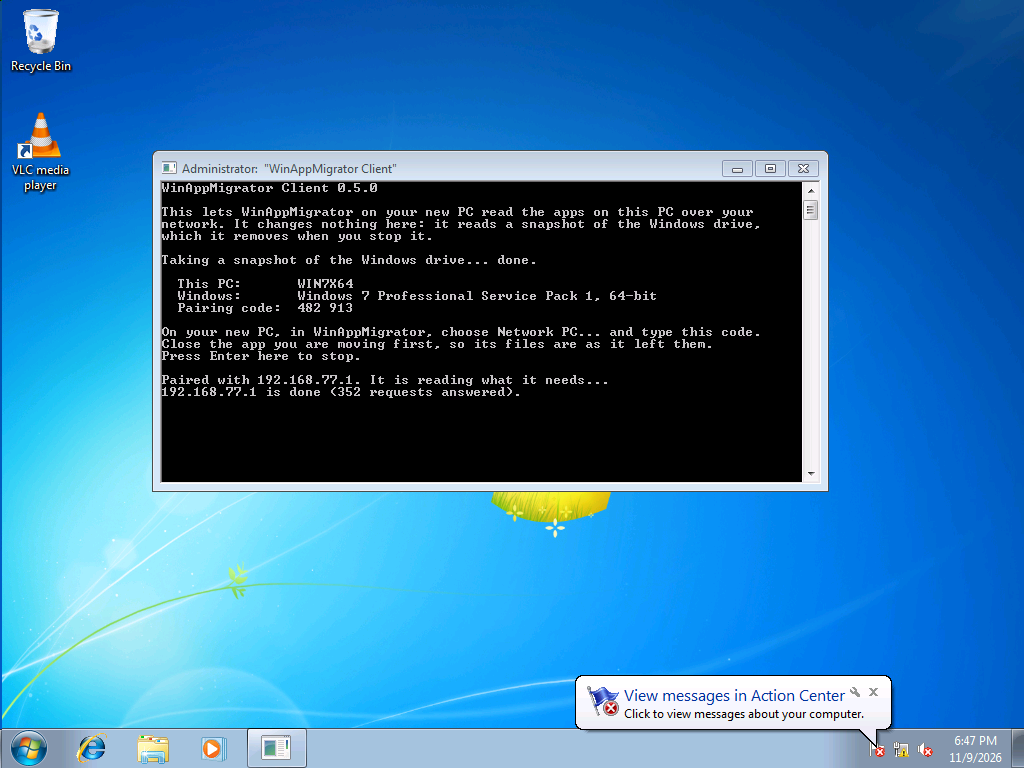
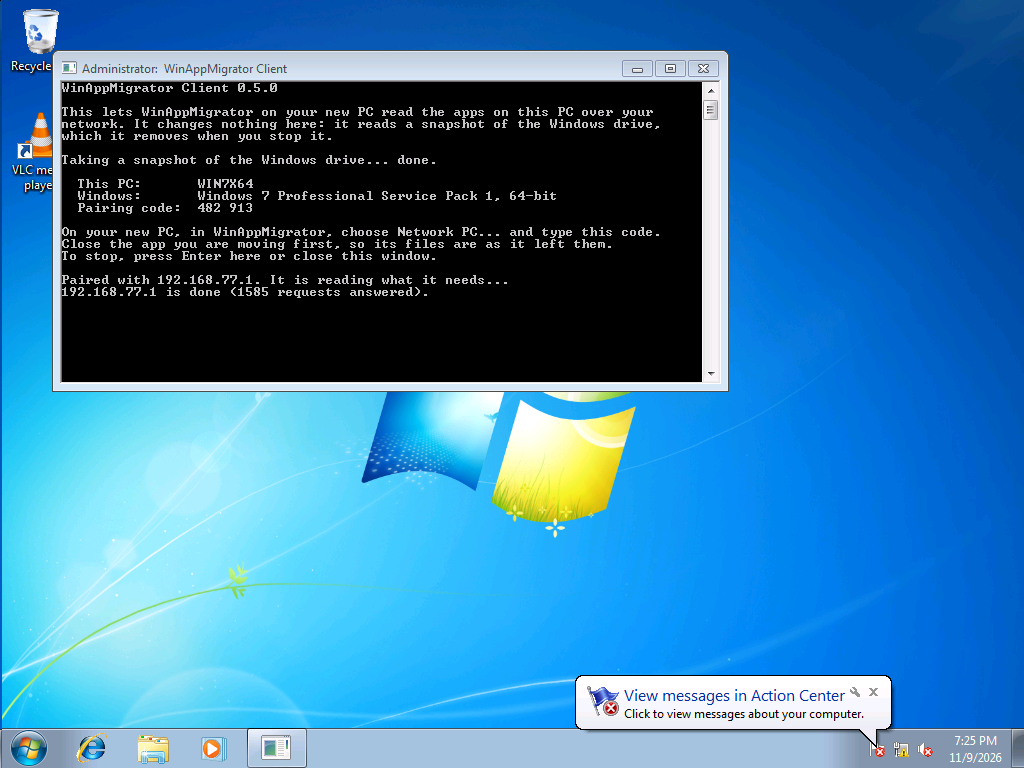
Clean up after the client when its window is closed
Closing the client's window ended it before it could remove its
snapshot and firewall rules, which then stayed until it next ran. Each
run now starts a copy of itself with --caretaker, with no console and
out of any job that lets it go, sharing nothing with the run but a
pipe. When the pipe closes, however the run ended, the caretaker waits
for the run's record to be let go of and undoes what it names. Tried on
Windows 7 SP1 x86 and x64 with Enter, a real WM_CLOSE to the console
window, and a kill, and on Windows 11 with a kill: no process, shadow
copy, firewall rule or record left after any of them.

A second client now says it is already running, rather than giving
error 32: the record was read before the lease on it was checked, and
that read failed first. The window's title no longer shows quotes,
which cmd's title kept. The note saved with the client, the README, and
discovery.md say closing the window stops it too; the README's build
steps include the client, and its crate table the two new crates.

Changed region(s): [[0.0312, 0.0625, 0.8125, 0.6562], [0.9375, 0.9375, 0.9688, 0.9688]]

diff --git a/crates/winappmigrator-client/src/system.rs b/crates/winappmigrator-client/src/system.rs
@@ -1,16 +1,20 @@
 //! What the client does to the PC it runs on, and undoes: a shadow copy of the Windows drive, and two
 //! Windows Firewall rules for its own ports from the local network. Each is recorded in a state file
 //! the client holds open while it runs, so that a run that ended without undoing them can be cleaned
-//! up after by the next, and a run still going is left alone.
+//! up after by its caretaker, a copy of the client with no window that waits for the run to end
+//! however it does, or by the next run, and a run still going is left alone.
 //!
 //! Everything here goes through tools every Windows from 7 on has: WMI through PowerShell 2.0, and
 //! `netsh`. Nothing else on the PC is changed.
 
 use std::fs::{self, File, OpenOptions};
-use std::io::{self, Write};
+use std::io::{self, Read, Seek, Write};
 use std::os::windows::fs::OpenOptionsExt;
+use std::os::windows::process::CommandExt;
 use std::path::{Path, PathBuf};
-use std::process::{Command, Output};
+use std::process::{Child, Command, Output, Stdio};
+use std::thread;
+use std::time::Duration;
 
 use winreg::RegKey;
 use winreg::enums::{HKEY_LOCAL_MACHINE, KEY_WOW64_64KEY};
@@ -32,6 +36,17 @@ const STATE_FILE: &str = "running.txt";
 const RULE_TCP: &str = "WinAppMigrator Client (link)";
 const RULE_UDP: &str = "WinAppMigrator Client (discovery)";
 const ERROR_SHARING_VIOLATION: i32 = 32;
+
+/// The argument that starts the client as a run's caretaker, rather than as a run.
+pub const CARETAKER: &str = "--caretaker";
+/// No console, so that closing a run's window does not end its caretaker too.
+const DETACHED_PROCESS: u32 = 0x0000_0008;
+/// Out of any job the run is in, so that the job ending does not end the caretaker too. A job that
+/// does not allow it refuses, and the caretaker is started without it.
+const CREATE_BREAKAWAY_FROM_JOB: u32 = 0x0100_0000;
+/// How long a caretaker waits for Windows to let go of a record once its run has ended.
+const CARETAKER_TRIES: u32 = 40;
+const CARETAKER_PAUSE: Duration = Duration::from_millis(250);
 
 /// Windows' own folder, from where it records it, which only an administrator can change. An
 /// elevated program does not go by the environment it was started with.
@@ -154,23 +169,32 @@ impl RunState {
         let folder = state_folder();
         fs::create_dir_all(&folder)?;
         let path = folder.join(STATE_FILE);
-        if let Ok(left) = fs::read_to_string(&path) {
-            match OpenOptions::new().write(true).share_mode(0).open(&path) {
-                Ok(_) => undo(&left),
-                Err(error) if error.raw_os_error() == Some(ERROR_SHARING_VIOLATION) => {
-                    return Err(io::Error::other(
-                        "the client is already running on this PC. Use that one, or stop it first.",
-                    ));
-                }
-                Err(_) => {}
-            }
-        }
-        let file = OpenOptions::new()
+        let left_by_another = path.exists();
+        // Held from here, so that the record is read, undone and started again by this run alone.
+        let mut file = OpenOptions::new()
+            .read(true)
             .write(true)
             .create(true)
-            .truncate(true)
+            .truncate(false)
             .share_mode(0)
-            .open(&path)?;
+            .open(&path)
+            .map_err(|error| {
+                if error.raw_os_error() == Some(ERROR_SHARING_VIOLATION) {
+                    io::Error::other(
+                        "the client is already running on this PC, or is cleaning up after one \
+                         that was closed. Use that one, or wait a moment and start this again.",
+                    )
+                } else {
+                    error
+                }
+            })?;
+        if left_by_another {
+            let mut left = String::new();
+            file.read_to_string(&mut left)?;
+            undo(&left);
+            file.set_len(0)?;
+            file.rewind()?;
+        }
         Ok(Self { file, path })
     }
 
@@ -188,6 +212,56 @@ impl RunState {
         let Self { file, path } = self;
         drop(file);
         let _ = fs::remove_file(path);
+    }
+}
+
+/// Start a copy of this program, with no window, that waits for this run to end and then undoes
+/// whatever its record still lists. Closing the run's window ends it before it can clean up after
+/// itself, and so would anything else that ends it, but not its caretaker. The two share nothing but
+/// a pipe, which closes when the run ends or drops the child, so keep the child until after
+/// [`RunState::end`].
+pub fn start_caretaker() -> io::Result<Child> {
+    let program = std::env::current_exe()?;
+    let start = |flags| {
+        Command::new(&program)
+            .arg(CARETAKER)
+            .stdin(Stdio::piped())
+            .stdout(Stdio::null())
+            .stderr(Stdio::null())
+            .creation_flags(flags)
+            .spawn()
+    };
+    start(DETACHED_PROCESS | CREATE_BREAKAWAY_FROM_JOB).or_else(|_| start(DETACHED_PROCESS))
+}
+
+/// Be a run's caretaker: wait for the run to end, then undo what its record still lists. A run that
+/// cleaned up after itself has removed its record, and a run started since holds its own, which is
+/// left alone.
+pub fn take_care() {
+    let _ = io::copy(&mut io::stdin().lock(), &mut io::sink());
+    let path = state_folder().join(STATE_FILE);
+    for _ in 0..CARETAKER_TRIES {
+        match OpenOptions::new()
+            .read(true)
+            .write(true)
+            .share_mode(0)
+            .open(&path)
+        {
+            Ok(mut file) => {
+                let mut left = String::new();
+                if file.read_to_string(&mut left).is_ok() {
+                    undo(&left);
+                }
+                drop(file);
+                // A run that has started since holds its record, which this then cannot remove.
+                let _ = fs::remove_file(&path);
+                return;
+            }
+            Err(error) if error.raw_os_error() == Some(ERROR_SHARING_VIOLATION) => {
+                thread::sleep(CARETAKER_PAUSE);
+            }
+            Err(_) => return,
+        }
     }
 }
 

diff --git a/crates/winappmigrator-client/src/main.rs b/crates/winappmigrator-client/src/main.rs
@@ -3,13 +3,16 @@
 
 use std::io::{self, BufRead};
 use std::net::{Ipv4Addr, TcpListener, UdpSocket};
+use std::os::windows::process::CommandExt;
 use std::process::ExitCode;
 use std::sync::{Arc, Mutex};
 use std::thread;
 use std::time::Duration;
 
 use winappmigrator_client::serve::serve;
-use winappmigrator_client::system::{RunState, Snapshot, about_this_pc, new_code, open_firewall};
+use winappmigrator_client::system::{
+    RunState, Snapshot, about_this_pc, new_code, open_firewall, start_caretaker,
+};
 use winappmigrator_link::channel::pair_as_client;
 use winappmigrator_link::discovery::{Announcement, answer};
 use winappmigrator_link::{DISCOVERY_PORT, LINK_PORT, LinkError, MAGIC, PROTOCOL_VERSION};
@@ -20,12 +23,18 @@ const ATTEMPTS_PER_CODE: u32 = 5;
 const IDLE_LIMIT: Duration = Duration::from_secs(30 * 60);
 
 fn main() -> ExitCode {
+    if std::env::args().nth(1).as_deref() == Some(winappmigrator_client::system::CARETAKER) {
+        winappmigrator_client::system::take_care();
+        return ExitCode::SUCCESS;
+    }
     // The window says what it is, rather than whatever started it. `title` changes the console it
     // shares with this, and nothing else.
     let _ = std::process::Command::new(
         winappmigrator_client::system::windows_folder().join(r"System32\cmd.exe"),
     )
-    .args(["/d", "/c", "title", "WinAppMigrator Client"])
+    // Raw, since `title` keeps any quotes it is given as part of the title.
+    .args(["/d", "/c"])
+    .raw_arg("title WinAppMigrator Client")
     .status();
     // Each line fits the 80 columns Windows 7 gives a console.
     println!("WinAppMigrator Client {}", winappmigrator_client::VERSION);
@@ -48,6 +57,14 @@ fn main() -> ExitCode {
 
 fn run() -> io::Result<()> {
     let mut state = RunState::begin()?;
+    // Kept until this returns, which tells the caretaker the run is over. It then waits for the
+    // record to be let go of, on a way out that drops it rather than ending it.
+    let _caretaker = start_caretaker()
+        .inspect_err(|error| {
+            println!("If this window is closed rather than stopped, the snapshot and firewall");
+            println!("rules stay until the client is next run here ({error}).");
+        })
+        .ok();
     print!("Taking a snapshot of the Windows drive... ");
     let snapshot = match Snapshot::take(&mut state) {
         Ok(snapshot) => snapshot,
@@ -119,7 +136,7 @@ fn run() -> io::Result<()> {
     println!();
     println!("On your new PC, in WinAppMigrator, choose Network PC... and type this code.");
     println!("Close the app you are moving first, so its files are as it left them.");
-    println!("Press Enter here to stop.");
+    println!("To stop, press Enter here or close this window.");
     println!();
 
     let root = snapshot.root.clone();

diff --git a/crates/winappmigrator-gui/src/network_view.rs b/crates/winappmigrator-gui/src/network_view.rs
@@ -32,7 +32,7 @@ Run this on the PC you are moving apps off: Windows 7, 8, 10 or 11.\r\n\
 2. Double-click \"WinAppMigrator Client.exe\" and let it make changes.\r\n\
 3. It shows a 6-digit pairing code. In WinAppMigrator on your new PC, choose\r\n\
    Network PC..., pick this PC, and type the code.\r\n\
-4. When the new PC is done, press Enter in the client's window.\r\n\
+4. When the new PC is done, press Enter in the client's window, or close it.\r\n\
 \r\n\
 It only reads. While it runs it keeps a snapshot of the Windows drive and lets\r\n\
 its own two ports through Windows Firewall from your local network, and it\r\n\

diff --git a/crates/winappmigrator-link/src/lib.rs b/crates/winappmigrator-link/src/lib.rs
@@ -1,6 +1,6 @@
 //! The encrypted link between WinAppMigrator on a new PC (the builder) and its client on an old one.
 //!
-//! The client runs on the PC an app is moving off, which can be Windows 7, 10 or 11. It does no
+//! The client runs on the PC an app is moving off, which can be Windows 7, 8, 10 or 11. It does no
 //! capturing of its own: it takes a snapshot of that PC's Windows drive and answers the builder's
 //! requests to list a folder, describe a file, and read part of one, read-only. The builder captures
 //! the app through those answers as it would from a drive plugged into it.

diff --git a/crates/winappmigrator-client/src/lib.rs b/crates/winappmigrator-client/src/lib.rs
@@ -1,4 +1,4 @@
-//! The client: runs on the PC an app is moving off (Windows 7, 10 or 11) and lets WinAppMigrator on
+//! The client: runs on the PC an app is moving off (Windows 7, 8, 10 or 11) and lets WinAppMigrator on
 //! the new PC read it over the network, through [`winappmigrator_link`]. It captures nothing itself.
 //!
 //! It takes a shadow copy of the Windows drive through WMI, so what is read is one moment of it and

diff --git a/README.md b/README.md
@@ -97,7 +97,7 @@ WinAppMigrator itself needs Windows 10 or 11. To move an app off a PC that is st
 The client only lets this PC read the old one, and does no capturing of its own. What the build reads crosses the network,
 and nothing else: an app's files and settings, not the whole drive. The code pairs the two PCs without ever crossing the
 network, and everything after it is encrypted. While it runs, the client lets its own two ports through Windows Firewall
-from your local network only, and when you press Enter it removes them and the snapshot.
+from your local network only, and when you press Enter or close its window, it removes them and the snapshot.
 
 <p align="center">
   <picture>
@@ -466,20 +466,26 @@ there is replaced.
 - **`%ProgramData%\WinAppMigrator`**, which only administrators can get into, holds logs, what an install needs to undo itself,
   and while one runs, what it has unpacked. A scan of a connected drive, or of an account that is not signed in, also keeps copies
   of registry files there while it runs.
+- **WinAppMigrator Client**, on the PC an app is moving off, keeps a snapshot of the Windows drive, two Windows Firewall rules
+  named `WinAppMigrator Client (link)` and `(discovery)`, and a record of both, `%ProgramData%\WinAppMigrator Client\running.txt`,
+  only while it runs. Stopping it or closing its window removes all three. If the PC shuts down while it runs, the next run of
+  the client removes them first. The empty `WinAppMigrator Client` folder stays.
 
 ## Building from source
 
 You need Windows, [Rust](https://rustup.rs) through rustup, which picks the pinned 1.99.1 by itself, and the Visual
-Studio C++ build tools. The app carries the installer inside itself, so build the installer first:
+Studio C++ build tools. The app carries the installer and WinAppMigrator Client inside itself, so build those first:
 
 ```powershell
 cargo build --release -p winappmigrator-installer
 $env:WINAPPMIGRATOR_INSTALLER_STUB = "$PWD\target\release\winappmigrator-installer.exe"
+scripts\build-client.ps1
 cargo build --release -p winappmigrator-gui
 .\target\release\winappmigrator.exe
 ```
 
-A release build of the app with no installer to carry stops there.
+A release build of the app with either missing stops there. The client is built for Windows 7 by
+[`scripts/build-client.ps1`](scripts/build-client.ps1), which says how.
 
 | Crate | What it is |
 | --- | --- |
@@ -487,6 +493,8 @@ A release build of the app with no installer to carry stops there.
 | [`winappmigrator-ui`](https://github.com/RandyNorthrup/WinAppMigrator/tree/main/crates/winappmigrator-ui) | Shared design system, widgets, and process hardening |
 | [`winappmigrator-gui`](https://github.com/RandyNorthrup/WinAppMigrator/tree/main/crates/winappmigrator-gui) | The app, built as `winappmigrator.exe`. Never restores anything |
 | [`winappmigrator-installer`](https://github.com/RandyNorthrup/WinAppMigrator/tree/main/crates/winappmigrator-installer) | The stub inside every installer, and the only caller of the restore code |
+| [`winappmigrator-link`](https://github.com/RandyNorthrup/WinAppMigrator/tree/main/crates/winappmigrator-link) | The encrypted link between the app and WinAppMigrator Client: pairing, messages, and finding a client |
+| [`winappmigrator-client`](https://github.com/RandyNorthrup/WinAppMigrator/tree/main/crates/winappmigrator-client) | WinAppMigrator Client, run on the PC an app is moving off. Only reads |
 
 Run the checks with the commands in [CONTRIBUTING.md](https://github.com/RandyNorthrup/WinAppMigrator/blob/main/CONTRIBUTING.md). Releases are built by
 [GitHub Actions](https://github.com/RandyNorthrup/WinAppMigrator/blob/main/.github/workflows/release.yml) when a `v*` tag is pushed.

diff --git a/docs/discovery.md b/docs/discovery.md
@@ -820,8 +820,14 @@ Windows has:
   program sees the real 64-bit `System32`. Nothing it reads is locked, and nothing changes while it is read.
 - **Two Windows Firewall rules** for its own program and ports, TCP 47732 and UDP 47731, from the local subnet only, by `netsh`.
 - **A record** of both, `%ProgramData%\WinAppMigrator Client\running.txt`, held open while it runs. Enter removes both and the
-  record. A run that ended any other way leaves the record, and the next run removes what it names first. One still running
-  is left alone, and a second will not start.
+  record. So does closing the window, which ends the run before it can: each run starts a copy of the client with
+  `--caretaker`, with no console and out of any job the run is in that lets it go, sharing nothing with it but a pipe.
+  When the pipe closes, however the run ended, the caretaker waits for the record to be let go of and removes what it names.
+  A run that ended with its caretaker too, as when Windows shuts down, leaves the record, and the next run removes what it
+  names first. One still running is left alone, and a second will not start.
+
+A paired link that asks nothing for 30 minutes is closed. The client keeps running, with its snapshot and rules, until it is
+stopped.
 
 **Finding it.** The app sends a query to the broadcast address of each IPv4 network it is on (`Get-NetIPAddress`) and to
 `255.255.255.255`, and each client answers with its PC's name, Windows and architecture (`winappmigrator_link::discovery`). That

diff --git a/CHANGELOG.md b/CHANGELOG.md
@@ -11,7 +11,7 @@ All notable project changes are tracked here.
   are then listed, and an installer is built from one here, as from this PC.
 - **The client only lets this PC read the old one.** It takes a snapshot of its Windows drive, so nothing is locked or
   changing, and the build reads what it needs from it: an app's files and settings, not the whole drive. It changes nothing
-  else there, and removes the snapshot and its firewall rules when you stop it.
+  else there, and removes the snapshot and its firewall rules when you stop it or close its window.
 - **Encrypted, and paired by the code.** The code never crosses the network, a wrong one gets a few tries before the client
   makes another, and everything after it is encrypted and checked.
 - **One small client for Windows 7, 8, 10 and 11, 32-bit or 64-bit.** The app carries it.

diff --git a/CONTRIBUTING.md b/CONTRIBUTING.md
@@ -180,7 +180,7 @@ See [docs/gui.md](docs/gui.md) for the conventions.
 
 Versions and tags have three parts, as in `v0.5.0`. The two four-part tags from before that stay as they are.
 
-1. In `Cargo.toml`, set the workspace `version` and the two path dependencies under `[workspace.dependencies]`, and let
+1. In `Cargo.toml`, set the workspace `version` and the four path dependencies under `[workspace.dependencies]`, and let
    `Cargo.lock` follow with a `cargo build`.
 2. In `CHANGELOG.md`, make `## Unreleased` into `## X.Y.Z — YYYY-MM-DD`.
 3. Run `cargo about generate about.hbs -o THIRD-PARTY-LICENSES.md` from the repository's root. A release generates its own
